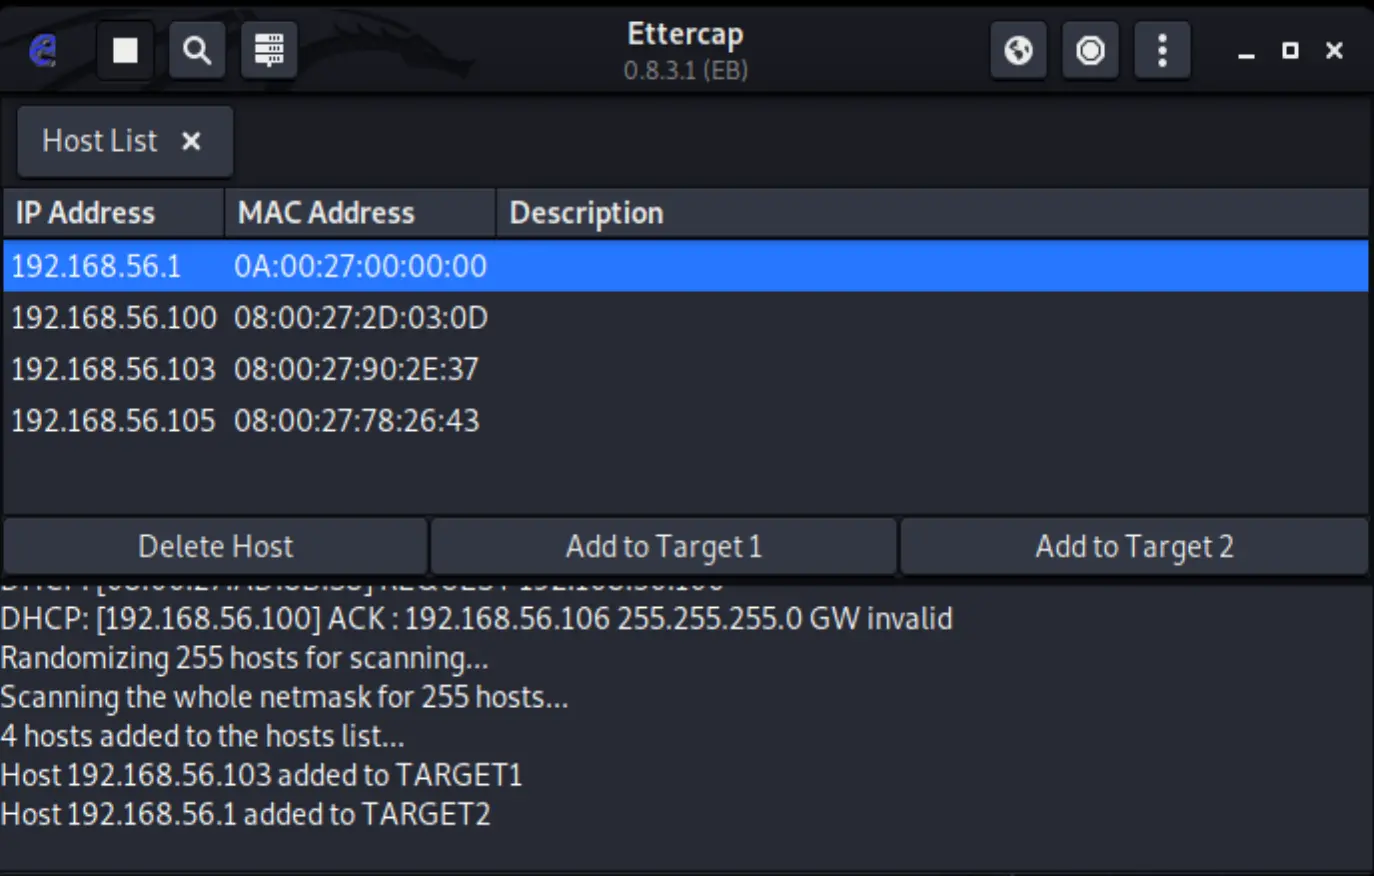
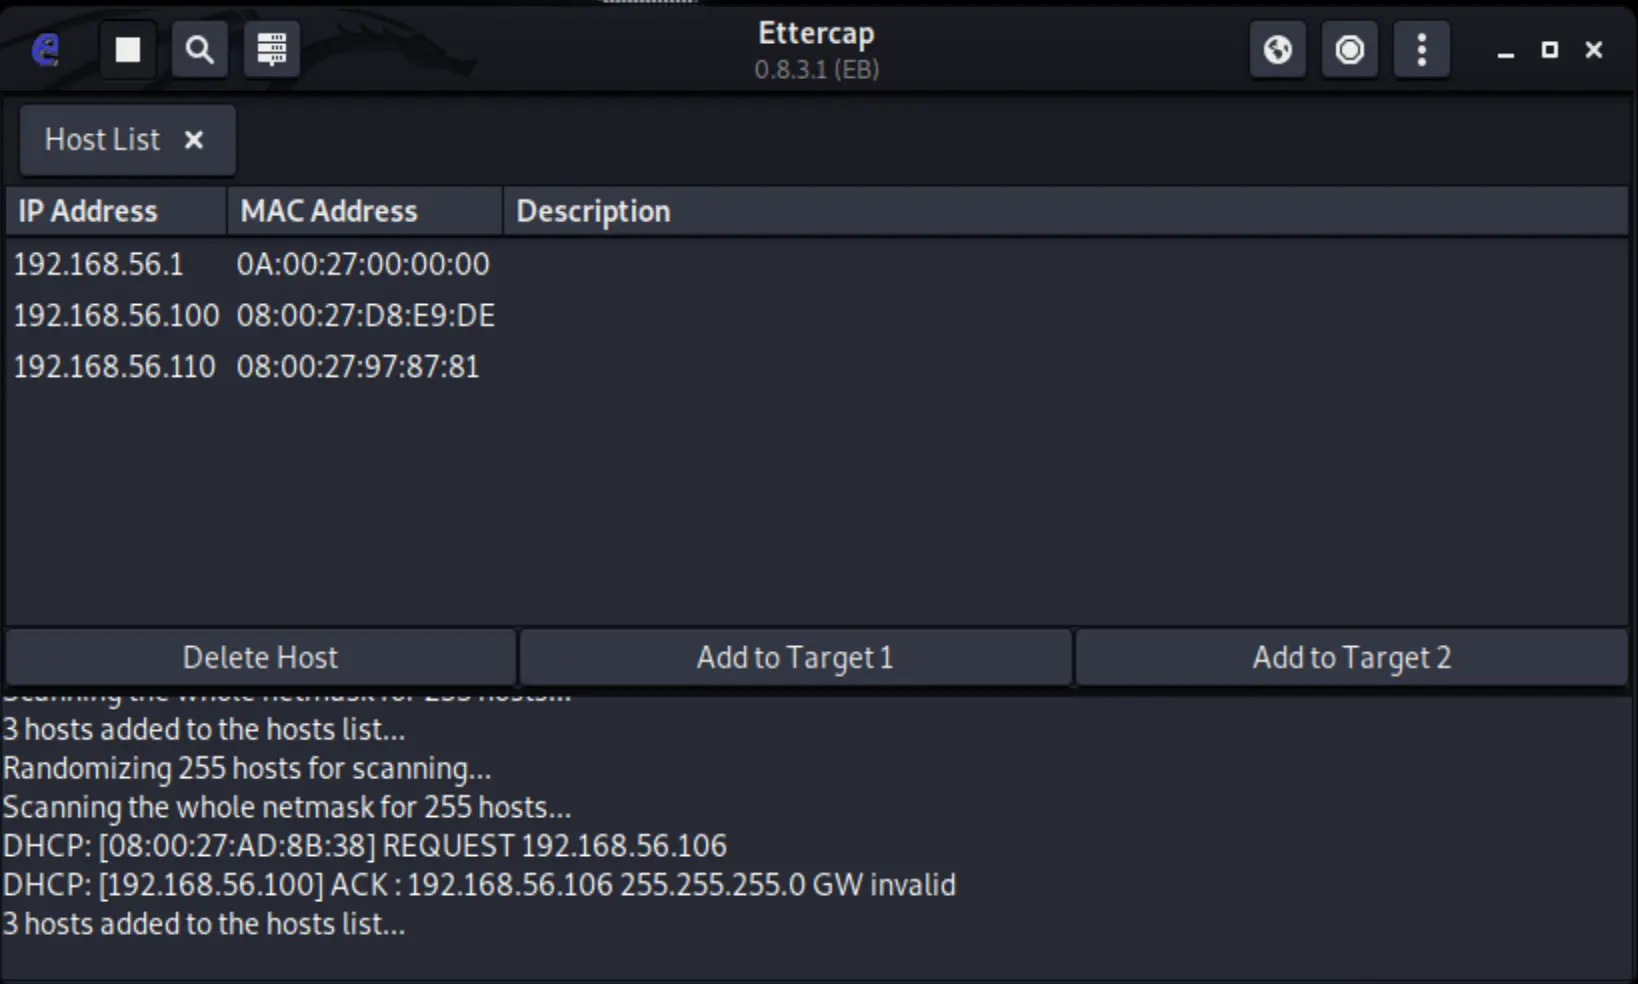
mitm fix#3

diff --git a/_posts/2021-11-23-mitm-attack-with-example.md b/_posts/2021-11-23-mitm-attack-with-example.md
@@ -123,14 +123,19 @@ In the first window, select the network card that shares the network subnet with
 
 ![Ettercap Select Network](/img/posts/ettercap-select_net.webp)
 
-> to check and confirm your correct network, run from the terminal `ip addr show`
+> to check and confirm your correct network, run from the terminal:
+> `ip addr show`
 
-Once clicked on accept, in the next screen, the ettercap will enter the *sniffing mode*. Our first step is to scan for the running hosts that are active in the current subnet by clicking on the icon ![](/img/posts/ettercap-scan_hosts.webp). After finished scanning, click on the icon ![](/img/posts/ettercap-list_hosts.webp) to list detected hosts near you. 
+Once clicked on accept, in the next screen, the ettercap will enter the *sniffing mode*. 
+
+First thing we need to to do is to scan for the running hosts that are active in the current subnet by clicking on the icon ![](/img/posts/ettercap-scan_hosts.webp). After finished scanning, click on the icon ![](/img/posts/ettercap-list_hosts.webp) to list detected hosts near you. 
+
+![Ettercap Hosts List](/img/posts/ettercap-hosts_list.webp)
 
 Next, select the targeted hosts by clicking on the victim's IP and then click on *Add to Target 1*, do the same with the server's IP but instead click on *Add to Target 2*. Now the tool will focus on the MiTM attack between the selected targets.
 
 
-### MiTM Phase 1: Disclouse the Server/Client Conversation 
+### MiTM Phase 1: Expose the Server/Client Conversation 
 
 After finishing the scanning phase, let's go ahead and start the first phase of the attack which reveals the conversation between the targeted parties. 
 
@@ -139,13 +144,13 @@ We are going to run `ARP Poisoning` attack by click on ![](/img/posts/ettercap-m
 Now your machine is in line between the server and the client. That is, you can see everything being sent between the server and the client. Confirm that by opening wireshark or tcpdump. For example, open the terminal and run this command:
 
 ```bash
-tcpdump -A -i eth1 port 4711 and host 192.168.56.103
+tcpdump -A -i eth1 port 4711 and host 192.168.56.110
 ```
 
 Now go to the client machine and re-run the python script to send the hello message again, then return to the attacker and you will see something like this:
 
 ```bash
-04:05:09.845686 IP 192.168.56.110.39210 > 192.168.56.103.4711: Flags [P.], seq 1:28, ack 1, win 229, options [nop,nop,TS val 1057102917 ecr 39383616], length 27
+04:05:09.845686 IP 192.168.56.110.39210 > 192.168.56.1.4711: Flags [P.], seq 1:28, ack 1, win 229, options [nop,nop,TS val 1057102917 ecr 39383616], length 27
 E..O.@@.@..B..8n..8g.*.g@.C._@.............
 ?..E.X.@chat.post(Hello Minecraft Server)
 ```
@@ -158,11 +163,21 @@ This is the phase of the attack when we are going to the extreme. After disclosi
 
 ```bash
 if (ip.proto == TCP && tcp.dst == 4711 && search(DATA.data, "Hello Minecraft Server") ) {
-   log(DATA.data, "/tmp/mispelled_ettercap.log");
-   replace("Hello Minecraft Server", "Message Hacked!");
+   log(DATA.data, "/tmp/ettercap.log");
+   replace("Hello Minecraft Server", "This Message is Hacked");
    msg("Altered Client Message\n");
 } 
 ```
+
+Let's explain this script..
+
+At the first line, we have the `if` clause where we ask ettercap to look for TCP traffic `ip.proto == TCP`, the port is being connected to is 4711 `tcp.dst == 4711`, and when the data stream being sent from one target to another contains that hello message `search(DATA.data, "Hello Minecraft Server")`
+
+The second line just for logging on `/tmp/ettercap.log`
+
+At the third line, we make the manipulation action which is this case replacing the original hello message to ours using `replace()` function.
+
+The fourth message will output to the ettercap console the confirmation that the message is altered.
 
 > Note that the replacment message and the one to be replaced have both the same characters count.
 
